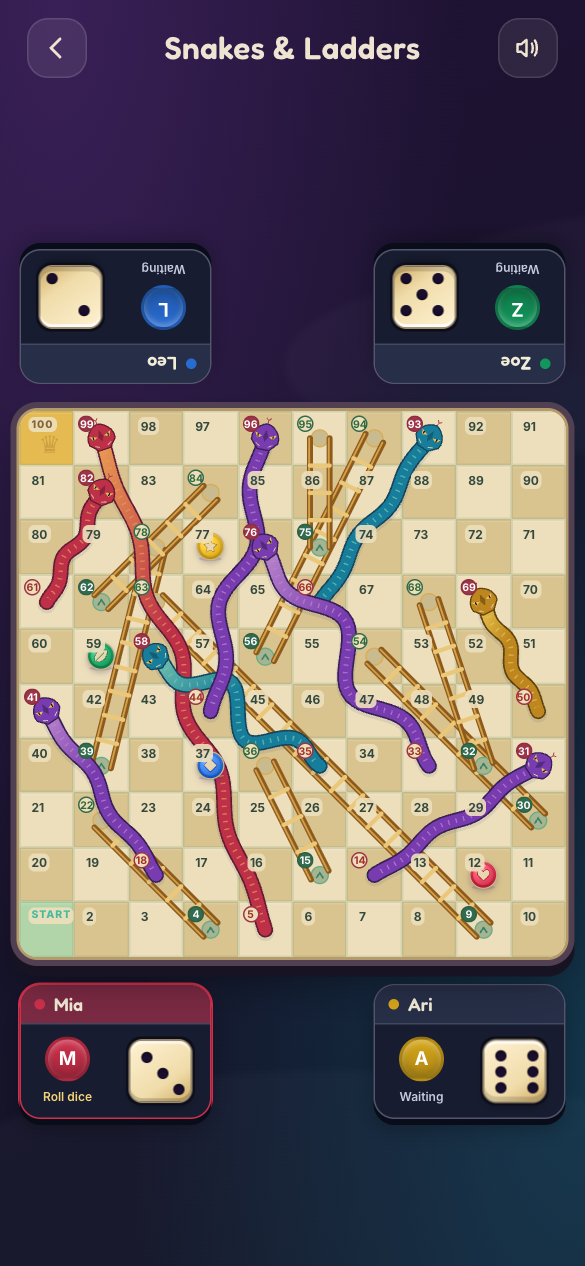
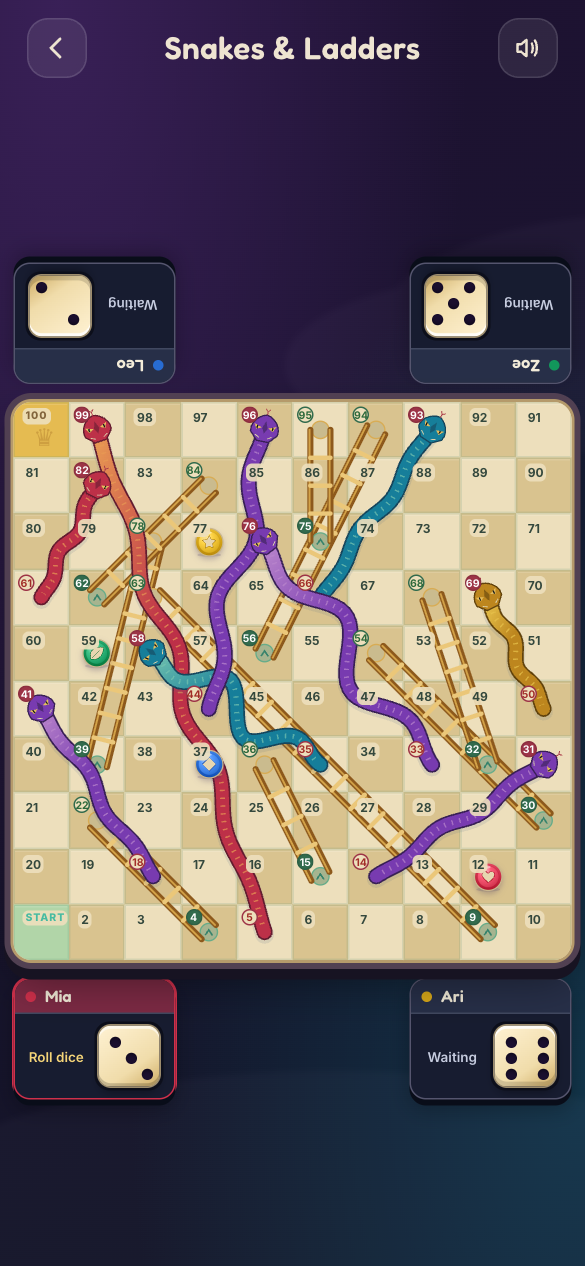
Reduce SNL player cards on portrait phones

Changed region(s): [[0.0, 0.1848, 1.0, 0.8934], [0.6154, 0.8009, 0.6462, 0.8626]]

diff --git a/src/pages/SnakesAndLaddersGame.tsx b/src/pages/SnakesAndLaddersGame.tsx
@@ -89,6 +89,7 @@ const SnakesAndLaddersGame: React.FC = () => {
   const playerCount = players.length;
   const layoutMode = useLayoutMode();
   const isWide = layoutMode === 'wide';
+  const isPhone = layoutMode === 'phone';
 
   // Board width = min(viewport-width budget, viewport-height budget).
   // The pods sit immediately above/below at gap 18, so the board is
@@ -112,8 +113,8 @@ const SnakesAndLaddersGame: React.FC = () => {
         flex: 1,
         minHeight: 0,
         aspectRatio: '1',
-        maxWidth: 'calc(100vw - 26px)',
-        maxHeight: 'calc(100vw - 26px)',
+        maxWidth: isPhone ? 'calc(100vw - 18px)' : 'calc(100vw - 26px)',
+        maxHeight: isPhone ? 'calc(100vw - 18px)' : 'calc(100vw - 26px)',
         alignSelf: 'center',
         position: 'relative',
       };
@@ -160,7 +161,7 @@ const SnakesAndLaddersGame: React.FC = () => {
           </div>
         </div>
       ) : (
-        <div style={{ flex: 1, minHeight: 0, display: 'flex', flexDirection: 'column', alignItems: 'stretch', justifyContent: 'center', padding: '14px 13px 13px', overflow: 'hidden', gap: 18 }}>
+        <div className={isPhone ? 'snl-phone-layout' : undefined} style={{ flex: 1, minHeight: 0, display: 'flex', flexDirection: 'column', alignItems: 'stretch', justifyContent: 'center', padding: isPhone ? '10px 9px 12px' : '14px 13px 13px', overflow: 'hidden', gap: isPhone ? 12 : 18 }}>
           <SNLPlayerHalfRow slots={topSlotsForCount(playerCount)} top />
           <div style={boardStyle}>
             <SNLBoard />

diff --git a/index.html b/index.html
@@ -17,12 +17,12 @@
     <meta property="og:title" content="Ludo Pitara — free Ludo & Snakes and Ladders, no ads" />
     <meta property="og:description" content="Play with friends on one phone or against bots. No ads, no sign-up, works offline." />
     <meta property="og:url" content="https://udeshvirk.github.io/ludo-pitara/" />
-    <meta property="og:image" content="https://udeshvirk.github.io/ludo-pitara/og-image-13709b36df.png" />
+    <meta property="og:image" content="https://udeshvirk.github.io/ludo-pitara/og-image-c819eb4b25.png" />
     <meta property="og:image:width" content="1200" />
     <meta property="og:image:height" content="630" />
     <meta property="og:image:alt" content="Ludo and Snakes & Ladders boards on a phone" />
     <meta name="twitter:card" content="summary_large_image" />
-    <meta name="twitter:image" content="https://udeshvirk.github.io/ludo-pitara/og-image-13709b36df.png" />
+    <meta name="twitter:image" content="https://udeshvirk.github.io/ludo-pitara/og-image-c819eb4b25.png" />
     <meta name="theme-color" content="#190a2e" />
     <meta name="apple-mobile-web-app-capable" content="yes" />
     <meta name="apple-mobile-web-app-status-bar-style" content="black-translucent" />

diff --git a/src/index.css b/src/index.css
@@ -358,3 +358,12 @@ button:focus-visible, a:focus-visible { outline: 3px solid #ffe18c; outline-offs
 .ludo-coin-choice { border-radius: 50%; outline: 2px solid #fff2ba; outline-offset: 1px; box-shadow: 0 0 0 4px #37291d; }
 .ludo-coin-choice:focus-visible { outline: 3px solid white; outline-offset: 3px; }
 .ludo-coin-marker { position: absolute; top: -12px; left: 50%; transform: translateX(-50%); color: #fff2ba; font-size: 12px; line-height: 12px; text-shadow: 0 1px 2px #000, 1px 0 2px #000; pointer-events: none; }
+
+/* SNL portrait phones: compact cards let the full-width board dominate.
+   Keep the 40px die and its tray padding for comfortable tapping. */
+.snl-phone-layout .player-pod { width: 108px; border-radius: 11px; }
+.snl-phone-layout .player-pod-name { padding: 4px 7px; font-size: 11px; border-radius: 10px 10px 0 0; }
+.snl-phone-layout .player-pod-tray { padding: 5px 7px; gap: 5px; }
+.snl-phone-layout .player-pod-identity { min-width: 0; flex: 1; }
+.snl-phone-layout .player-pod-identity > div { display: none; }
+.snl-phone-layout .player-pod-status { font-size: 9px; }

diff --git a/vite.config.ts b/vite.config.ts
@@ -26,8 +26,8 @@ export default defineConfig({
         // Phone screenshots give Android Chrome its richer install sheet.
         screenshots: [
           { src: 'screenshots/ludo.png?v=c3c603b508', sizes: '585x1266', type: 'image/png', form_factor: 'narrow', label: 'Ludo' },
-          { src: 'screenshots/snakes-and-ladders.png?v=5b553b49f7', sizes: '585x1266', type: 'image/png', form_factor: 'narrow', label: 'Snakes & Ladders' },
-          { src: 'screenshots/game-select.png?v=ba4f5e03cf', sizes: '585x1266', type: 'image/png', form_factor: 'narrow', label: 'Choose a game' },
+          { src: 'screenshots/snakes-and-ladders.png?v=2631b79e77', sizes: '585x1266', type: 'image/png', form_factor: 'narrow', label: 'Snakes & Ladders' },
+          { src: 'screenshots/game-select.png?v=6445e6c566', sizes: '585x1266', type: 'image/png', form_factor: 'narrow', label: 'Choose a game' },
         ],
         icons: [
           {

diff --git a/MEMORY.md b/MEMORY.md
@@ -69,6 +69,16 @@ placement logic with the new looks**. That is the current implementation in
   and store completion: ladders 550ms, short snakes 850ms, falls ≥45 cells 1450ms.
 - Respect reduced motion, including changes while a die is rolling.
 
+## SNL phone proportions
+
+- Screenshot feedback (18 Nov): SNL player cards dominate the board on phones;
+  iPad and laptop proportions are already good.
+- Portrait phone layout only (<600px): cards are 108px wide, omit the redundant
+  avatar, retain name/status and the 40px die, and use tighter spacing. Board
+  gutters are 9px; the board remains square. Tablet and wide layouts unchanged.
+- Checked 320×568, 390×844, 430×932, 768×1024 and 844×390 with four players.
+  Publishing includes refreshed screenshots and social preview assets.
+
 ## Publishing, previews, and validation
 
 - Production: https://udeshvirk.github.io/ludo-pitara/

diff --git a/ARCHITECTURE.md b/ARCHITECTURE.md
@@ -419,6 +419,9 @@ Board sizing uses a height-driven 1:1 aspect ratio and matching width/height
 limits. Both boards have square cells on phones and tablets; the old SNL
 5:6 mobile ratio was removed because it stretched artwork. Player cards sit
 above/below in portrait and beside the board at landscape widths ≥640px.
+SNL portrait phones (<600px) use 108px cards without the redundant avatar,
+retain the 40px die, and reduce board gutters to 9px. Tablet and landscape
+layouts retain their existing proportions.
 Check that the board and all four cards fit on short screens.
 
 ## Sound and haptics
